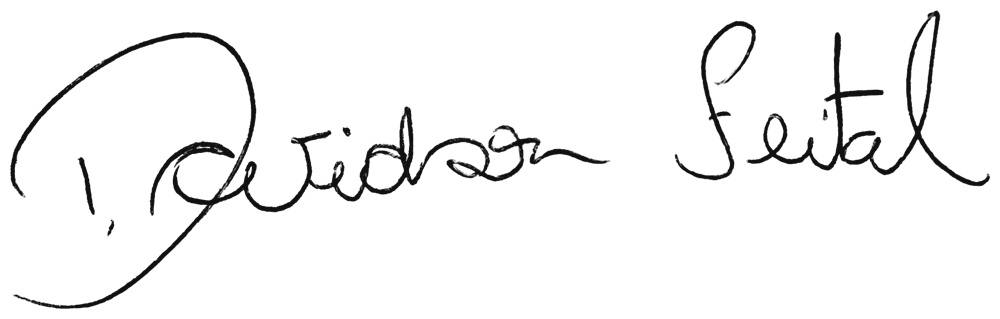
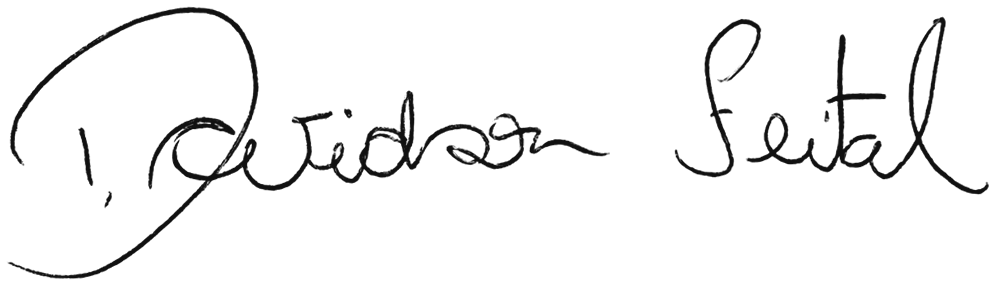
Registro Geral e assinatura nivelada

diff --git a/index.html b/index.html
@@ -249,7 +249,7 @@ body{
       <button class="opc" id="impA4"><b>A4</b>Para imprimir em casa: frente e verso lado a lado numa folha, recortar, dobrar ao meio e plastificar.</button>
       <button class="cancelar" id="impCancelar">Cancelar</button></div></div>
     <div class="status" id="status"></div>
-    <div class="status" style="opacity:.35;margin-top:4px">versão 22/11/2026 · 7</div>
+    <div class="status" style="opacity:.35;margin-top:4px">versão 22/11/2026 · 8</div>
   </section>
 
 <script>
@@ -297,7 +297,7 @@ function mostrar(c){
   $('nome').textContent = c.nome;
   $('cargo').textContent = cg;
   const NI = 'NÃO INFORMADO';
-  const campos = [['CPF', c.cpf], ['RG', c.rg || NI], ['Nascimento', c.nascimento], ['Consagração', c.consagracao || NI],
+  const campos = [['CPF', c.cpf], ['Registro Geral', c.rg || NI], ['Nascimento', c.nascimento], ['Consagração', c.consagracao || NI],
                   ['Membro desde', c.entrada || '—'], ['Batismo', c.batismo || '—']];
   $('dados').innerHTML = campos.map(([r,v]) => `<div class="linha"><span class="rot">${r}</span><span class="val${v === NI ? ' ni' : ''}">${v}</span></div>`).join('');
   $('valid').textContent = 'VÁLIDA ATÉ ' + c.validade;
@@ -478,7 +478,7 @@ async function gerarOficio(c){
   const asn = await pngDataUrl('assinatura-preta.png');
   doc.setFont('helvetica', 'bold'); doc.setFontSize(11); doc.text('Davidson de Almeida Feital', 105, ya + 6, { align: 'center' });
   doc.setFont('helvetica', 'normal'); doc.setFontSize(8.5); doc.setTextColor(cinzaM); doc.text('PASTOR PRESIDENTE', 105, ya + 11, { align: 'center', charSpace: 1 });
-  if (asn) doc.addImage(asn, 'PNG', 75, ya - 11.5, 60, 19.1);
+  if (asn) doc.addImage(asn, 'PNG', 75, ya - 10, 60, 17.25);
   // rodapé com QR
   const q = qrcode(0, 'M'); q.addData(c.urlOficio); q.make();
   doc.addImage(q.createDataURL(6, 0), 'GIF', 20, 252, 26, 26);

diff --git a/sw.js b/sw.js
@@ -1,7 +1,7 @@
 // Credencial Rhema Luz — modo offline.
 // A página (index.html) vem SEMPRE da internet primeiro (assim toda atualização aparece na hora);
 // sem internet, abre a última cópia salva. Imagens e bibliotecas: cópia salva primeiro.
-const CACHE = 'credencial-v18';
+const CACHE = 'credencial-v19';
 const ARQS = ['./', 'index.html', 'logo.png', 'logo-ouro.png', 'logo-marrom.png', 'assinatura.png', 'assinatura-branca.png', 'assinatura-clara.png', 'assinatura-preta.png', 'manifest.webmanifest',
   'icon-192.png', 'icon-512.png', 'icon-maskable-512.png', 'apple-touch-icon.png',
   'https://cdnjs.cloudflare.com/ajax/libs/qrcode-generator/1.4.4/qrcode.min.js',
